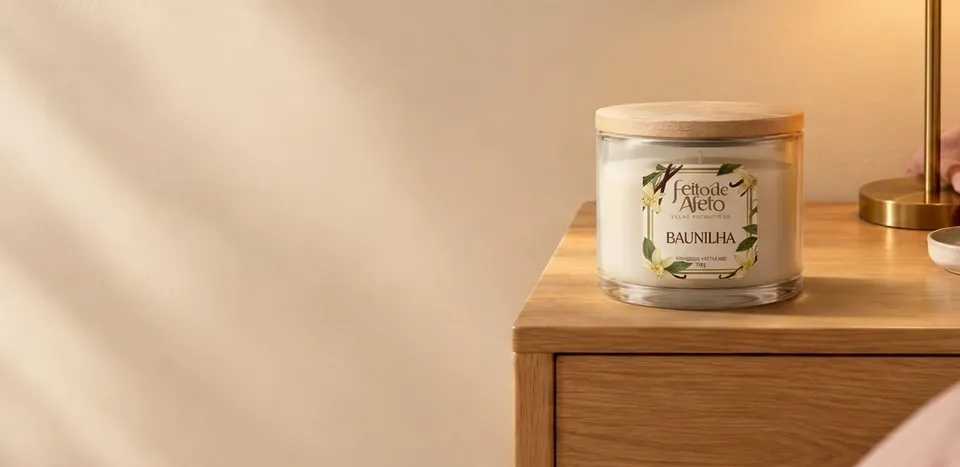
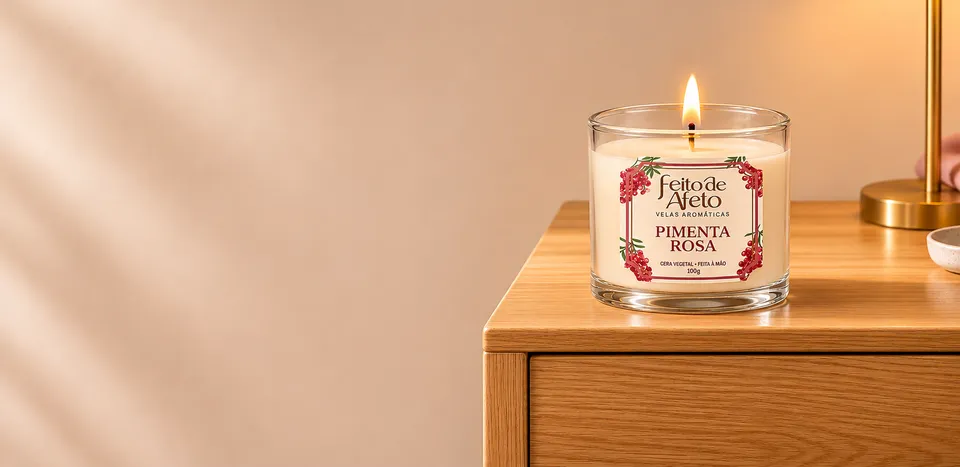
feat: vela floral de 100g, foto da fundadora, hero do celular e ajustes do Figma
- Vela floral de 100g (R$ 55,00), antes da 100g: uma foto por aroma (a vela
  floral do Figma com o rótulo de cada aroma aplicado) e miniaturas próprias
- Kit de 3 velas de 100g: R$ 125,00 (economize R$ 10), também no FAQ
- Hero: nova foto do Figma (vela Pimenta Rosa); desktop com título 64/64;
  no celular a foto fica no topo com a vela no centro e esmaece para o
  escuro, com os textos claros por cima e botões creme e translúcido (AA)
- Quem faz: foto da fundadora (desktop ao lado do texto, celular no topo)
- Como fazemos: ícones no lugar dos números, cards centralizados
- Depoimentos com os nomes do Figma; subtítulo nos modelos; títulos sem
  ponto final; faixa do topo em bordô-escuro; CTA final com "Consultar
  formas de pagamento"; rodapé com "Todos os direitos reservados"
- Figma alinhado entre desktop e mobile; DESIGN.md e CLAUDE.md atualizados

diff --git a/src/data/content.ts b/src/data/content.ts
@@ -53,7 +53,7 @@ export interface Model {
         width: number;
         height: number;
         /** Foto por aroma (chave = nome do aroma): troca com fade quando a cliente escolhe o aroma. */
-        byAroma?: Record<string, { src: string; alt: string }>;
+        byAroma?: Record<string, { src: string; alt: string; thumb?: string }>;
         /** Foto por tamanho do kit (chave = id do tamanho): troca com fade quando a cliente escolhe o tamanho. */
         bySize?: Record<string, { src: string; alt: string }>;
       }
@@ -62,6 +62,49 @@ export interface Model {
 }
 
 export const models: Model[] = [
+  {
+    id: 'modelo-100g-floral',
+    label: 'Clássica',
+    name: 'Vela floral de 100g',
+    orderName: 'vela floral de 100g',
+    description:
+      'O nosso formato de sempre: pote de vidro com tampa de madeira, que continua com você depois da última chama.',
+    specs: ['100g', '~25h de queima', 'Cera vegetal'],
+    price: 'R$ 55,00',
+    priceValue: 55,
+    order: { type: 'single' },
+    media: {
+      kind: 'photo',
+      src: '/img/floral/pimenta-rosa.webp',
+      alt: 'Vela floral de 100g Pimenta Rosa acesa, com flores de cera vermelhas sobre a vela, em pote de vidro com a tampa de madeira ao lado',
+      width: 1200,
+      height: 1120,
+      // Uma foto por aroma: a mesma vela floral com o rótulo de cada aroma.
+      byAroma: {
+        'Pimenta Rosa': {
+          src: '/img/floral/pimenta-rosa.webp',
+          alt: 'Vela floral de 100g Pimenta Rosa acesa, com flores de cera vermelhas sobre a vela, em pote de vidro com a tampa de madeira ao lado',
+        },
+        Baunilha: {
+          src: '/img/floral/baunilha.webp',
+          alt: 'Vela floral de 100g Baunilha acesa, com flores de cera vermelhas sobre a vela, em pote de vidro com a tampa de madeira ao lado',
+        },
+        'Morango com Champanhe': {
+          src: '/img/floral/morango-com-champanhe.webp',
+          alt: 'Vela floral de 100g Morango com Champanhe acesa, com flores de cera vermelhas sobre a vela, em pote de vidro com a tampa de madeira ao lado',
+        },
+        'Perfume das Fadas': {
+          src: '/img/floral/perfume-das-fadas.webp',
+          alt: 'Vela floral de 100g Perfume das Fadas acesa, com flores de cera vermelhas sobre a vela, em pote de vidro com a tampa de madeira ao lado',
+        },
+        'Cereja com Avelã': {
+          src: '/img/floral/cereja-com-avela.webp',
+          alt: 'Vela floral de 100g Cereja com Avelã acesa, com flores de cera vermelhas sobre a vela, em pote de vidro com a tampa de madeira ao lado',
+        },
+      },
+    },
+    tint: 'pimenta-rosa',
+  },
   {
     id: 'modelo-100g',
     label: 'Clássica',
@@ -153,7 +196,7 @@ export const models: Model[] = [
     description:
       'Monte o seu trio com os aromas que quiser, iguais ou diferentes. Um para cada canto da casa, ou três presentes resolvidos de uma vez.',
     specs: ['3 velas', 'Aromas à sua escolha', 'Todas do mesmo tamanho'],
-    price: 'R$ 120,00',
+    price: 'R$ 125,00',
     order: {
       type: 'kit',
       sizes: [
@@ -161,9 +204,9 @@ export const models: Model[] = [
           id: '100g',
           label: '3 velas de 100g',
           size: '100g',
-          price: 'R$ 120,00',
-          priceValue: 120,
-          saving: 'Economize R$ 15',
+          price: 'R$ 125,00',
+          priceValue: 125,
+          saving: 'Economize R$ 10',
         },
         {
           id: '40g',
@@ -278,17 +321,17 @@ export const trust = [
 
 export const steps = [
   {
-    number: '01',
+    icon: 'escolha',
     title: 'Você escolhe',
     text: 'Escolha o aroma aqui na página e chame a gente no WhatsApp com um clique.',
   },
   {
-    number: '02',
+    icon: 'maos',
     title: 'A gente produz',
     text: 'Cada vela é feita à mão, sob encomenda, com cera vegetal e aroma selecionado.',
   },
   {
-    number: '03',
+    icon: 'entrega',
     title: 'Chega até você',
     text: 'Embalada com cuidado e pronta para presentear ou acender no mesmo dia.',
   },
@@ -298,18 +341,18 @@ export const testimonials = [
   {
     quote:
       'Comprei a de Baunilha para mim e voltei para pegar mais duas de presente. O cheiro fica no quarto mesmo apagada.',
-    author: 'Cliente 1',
+    author: 'Jadhe Nunes',
     detail: 'Comprou Baunilha',
   },
   {
-    quote: 'A Pimenta Rosa virou a vela oficial da minha sala. E o pote eu reaproveitei para guardar pincéis.',
-    author: 'Cliente 2',
-    detail: 'Comprou Pimenta Rosa',
+    quote: 'Atendimento pelo WhatsApp super rápido. Me ajudaram a escolher e acertaram em cheio.',
+    author: 'Edimur',
+    detail: 'Comprou Morango com Champanhe',
   },
   {
-    quote: 'Atendimento pelo WhatsApp super rápido. Me ajudaram a escolher e acertaram em cheio.',
-    author: 'Cliente 3',
-    detail: 'Comprou Morango com Champanhe',
+    quote: 'A Pimenta Rosa virou a vela oficial da minha sala. E o pote eu reaproveitei.',
+    author: 'Julia Pereira',
+    detail: 'Comprou Pimenta Rosa',
   },
 ];
 
@@ -338,7 +381,7 @@ export const faq: FaqItem[] = [
   {
     question: 'Como funciona o kit com 3 velas?',
     answer:
-      'Você escolhe o tamanho (3 de 100g por R$ 120,00 ou 3 de 40g por R$ 55,00) e os três aromas, iguais ou diferentes. Sai mais em conta que comprar as velas avulsas.',
+      'Você escolhe o tamanho (3 de 100g por R$ 125,00 ou 3 de 40g por R$ 55,00) e os três aromas, iguais ou diferentes. Sai mais em conta que comprar as velas avulsas.',
   },
   {
     question: 'Qual o prazo de produção?',

diff --git a/src/styles/global.css b/src/styles/global.css
@@ -41,8 +41,8 @@
 
   /* Escala de texto no grid de 8 (valores de desktop; mobile em @layer base abaixo). */
   /* Escala de desktop (≥1024px), no padrão de sites de produto consolidados. */
-  --text-display: 3.5rem; /* 56 / 64 */
-  --text-display--line-height: 1.1428;
+  --text-display: 4rem; /* 64 / 64 (hero desktop, Figma) */
+  --text-display--line-height: 1;
   --text-display--letter-spacing: -3px;
   --text-display--font-weight: 600;
 

diff --git a/DESIGN.md b/DESIGN.md
@@ -104,7 +104,7 @@ Uma família só (Inter). Hierarquia por tamanho e peso, nunca por cor extra. La
 
 ## Hero
 
-Fundo: "hero-banner 1" no **recorte usado no frame da landing** (1:63), gerado por `npm run hero`, com o **degradê bordô do Figma** por cima (90% até 27% da largura, some em 88%). Desktop: título em **branco**, label e prova social em **rosa**, texto em **rosa suave** e "Ver a coleção" em contorno branco — todos AA graças ao degradê (`npm run contrast` mede o pior ponto atrás de cada texto). Mobile: **sem imagem** — texto em bordô-escuro sobre o creme, botões e, sobre "Mais de 100 velas vendidas", 5 estrelas decorativas (`--color-estrela` #FFD900, só ilustração). A imagem nem é baixada abaixo de 1024px.
+Fundo: foto do Figma (180:111, vela Pimenta Rosa na mesa de cabeceira) preenchendo o hero, gerada por `npm run hero`. **Desktop:** título 64/64 em bordô (sem ponto final), label em bordô-escuro, texto em tinta, "Escolher minha vela" bordô e "Ver a coleção" creme — AA sobre a parede (`npm run contrast` mede o pior ponto atrás de cada texto). **Celular:** a mesma foto vira um **banner no topo** (390 × 360, recorte com a vela no centro; 16:10 no tablet) e os textos ficam embaixo, sobre o creme: label e título em bordô, texto em cinza, botões em largura total. Uma `<picture>` só: cada tamanho baixa só a sua versão.
 
 ## Navbar e logo
 
@@ -122,7 +122,7 @@ Animações (desligam com `prefers-reduced-motion`, que deixa só o esmaecimento
 
 ## Modelos
 
-Três blocos no layout dos antigos blocos de vela, sem número na imagem (a Flor de Cera saiu: só entra o que dá para comprar): **Vela de 100g** (uma foto por aroma, mesmo estúdio; começa em Pimenta Rosa e troca com fade ao escolher o aroma; R$ 45,00), **Vela de 40g** (uma foto por aroma, mesma base: só o rótulo muda, como na 100g; R$ 20,00) e **Kit com 3 velas** (foto com 3 velas — uma na frente, duas atrás — que troca com o tamanho escolhido; 3 de 100g R$ 120,00 ou 3 de 40g R$ 55,00, com a economia em relação às avulsas). Preços vêm do Figma/dona; não inventar valores.
+Quatro blocos, alternando o lado da foto (subtítulo: "Escolha o tamanho, o aroma e monte o seu pedido. Todas feitas à mão, sob encomenda."): **Vela floral de 100g** (flores de cera vermelhas sobre a vela; uma foto por aroma, mesma vela com o rótulo de cada aroma; R$ 55,00), **Vela de 100g** (uma foto por aroma, mesmo estúdio; começa em Pimenta Rosa e troca com fade ao escolher o aroma; R$ 45,00), **Vela de 40g** (uma foto por aroma, mesma base: só o rótulo muda, como na 100g; R$ 20,00) e **Kit com 3 velas** (foto com 3 velas — uma na frente, duas atrás — que troca com o tamanho escolhido; 3 de 100g R$ 125,00 ou 3 de 40g R$ 55,00, com a economia em relação às avulsas). Preços vêm do Figma/dona; não inventar valores.
 
 **Tamanho no desktop:** cada bloco de modelo cabe numa tela de notebook (~680px) sob o menu — imagem 600×512, 16px de respiro vertical, 16px entre os itens; no kit, sem chips (as opções de tamanho já dizem isso) e cada opção com preço e economia na mesma linha.
 
@@ -158,4 +158,4 @@ Breakpoints Tailwind: `sm` 640, `md` 768, `lg` 1024, `xl` 1280. Grades de 2 colu
 - As 5 velas usam a mesma foto de pote com rótulos trocados; fotos individuais (ou da vela acesa) dariam mais variedade.
 - O Figma não posiciona as fotos dentro dos blocos da coleção (lá ainda há o placeholder); o tamanho de 80% da caixa foi decisão de implementação.
 - Frame mobile (390, iPhone 13) no Figma: node 47:37. No celular a faixa de benefícios não aparece.
-- "Mais de 100 velas vendidas" (Figma) e os depoimentos são de exemplo até haver dados reais.
+- Os depoimentos (Jadhe Nunes, Edimur, Julia Pereira) são de exemplo até haver dados reais.

diff --git a/CLAUDE.md b/CLAUDE.md
@@ -2,7 +2,7 @@
 
 Landing page da marca Feito de Afeto, construída a partir do design no Figma (via Figma MCP).
 
-> **Status:** projeto **conceitual de portfólio**. A marca (velas aromáticas artesanais em Santos/SP), produtos, preços, depoimentos e contatos são **fictícios** e estão definidos em `docs/briefing.md` — usar só o que está lá, sem inventar claims novos. Página publicada com `noindex` e aviso "Projeto conceitual" no rodapé.
+> **Status:** projeto **conceitual de portfólio**. A marca (velas aromáticas artesanais em Santos/SP), produtos, preços, depoimentos e contatos são **fictícios** e estão definidos em `docs/briefing.md` — usar só o que está lá, sem inventar claims novos. Página publicada com `noindex`. O rodapé traz "Feito de Afeto 2026 - Todos os direitos reservados." (decisão da dona, no lugar do antigo aviso "Projeto conceitual").
 
 ## Arquivos de contexto
 
@@ -95,10 +95,12 @@ Nomes em minúsculas, com hífen, sem espaços. `<aroma>` = id do aroma em `src/
 | Fonte (`assets/`) | O que é | Vira (`public/`) |
 |---|---|---|
 | `marca/logo.svg`, `logo-fundo-*.png` | logo original | `brand/*`, favicons, OG (`npm run brand`) |
-| `hero/hero-banner.jpg` | foto do hero (Figma) | `img/hero-banner*.webp` (`npm run hero`) |
+| `hero/hero-banner.png` | foto do hero (Figma 180:111, vela Pimenta Rosa) | `img/hero-banner{-960,}.webp` (desktop) e `img/hero-banner-mobile{-520,}.webp` (banner do celular, vela no centro) (`npm run hero`) |
 | `aromas/<aroma>.jpg` | fotos do Moodboard | `img/aromas/<aroma>{-360,}.webp` |
 | `produto/100g/<aroma>.png` | fotos do modelo 100g por aroma: Pimenta Rosa é a foto do Figma; as outras são ela com a arte do rótulo (`rotulos/100g`) aplicada | `img/100g/<aroma>{-640,}.webp` |
 | `produto/40g/<aroma>.png` | fotos do modelo 40g por aroma: base Cereja com Avelã (Figma) com o rótulo 40g de cada aroma aplicado; originais em `produto/40g/fotos-originais/` | `img/40g/<aroma>{-640,-thumb,}.webp` |
+| `produto/floral/<aroma>.png` | vela floral de 100g por aroma: Pimenta Rosa é a foto do Figma; as outras são ela com o rótulo do aroma (tirado de `produto/100g`, alinhado e com a luz corrigida) | `img/floral/<aroma>{-640,-thumb,}.webp` |
+| `fundadora/giovaneli.png` | foto da fundadora (Figma 192:111) | `img/fundadora{-400,}.webp` |
 | `produto/kit/kit-<tamanho>.png` | kit com 3 velas (1 na frente, 2 atrás), por tamanho | `img/kit/kit-<tamanho>{-640,}.webp` |
 | `produto/pote-100g.png`, `produto/vela-40g-perfume-das-fadas.png` | potes recortados (alternativas) | — |
 | `rotulos/` | rótulos (arte) | — (referência) |

diff --git a/docs/briefing.md b/docs/briefing.md
@@ -17,7 +17,7 @@
 
 Modelos (Figma): **100 g** (~25 h, pote de vidro + tampa de madeira) **R$ 45,00** · **40 g** (pote com rolha) **R$ 20,00** · **100 g com flor de cera** *em breve*. Todas de cera vegetal.
 
-**Kit com 3 velas** (aromas à escolha, todas do mesmo tamanho): 3 × 100 g **R$ 120,00** (R$ 15 a menos que avulsas) · 3 × 40 g **R$ 55,00** (R$ 5 a menos).
+**Kit com 3 velas** (aromas à escolha, todas do mesmo tamanho): 3 × 100 g **R$ 125,00** (R$ 10 a menos que avulsas) · 3 × 40 g **R$ 55,00** (R$ 5 a menos).
 
 Notas: cartões "Pirâmide olfativa" da página Moodboard do Figma.
 
